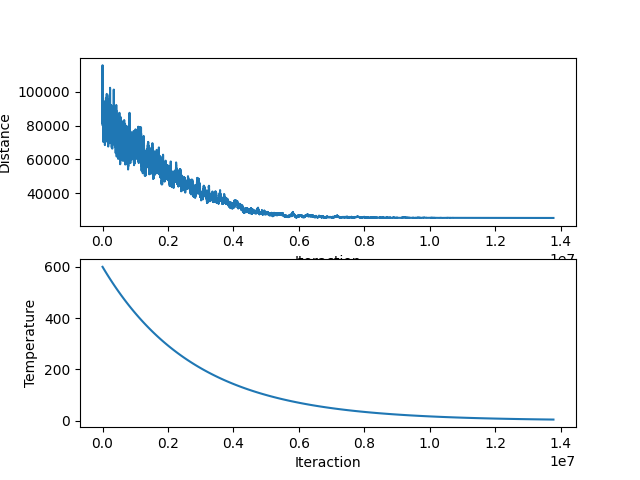
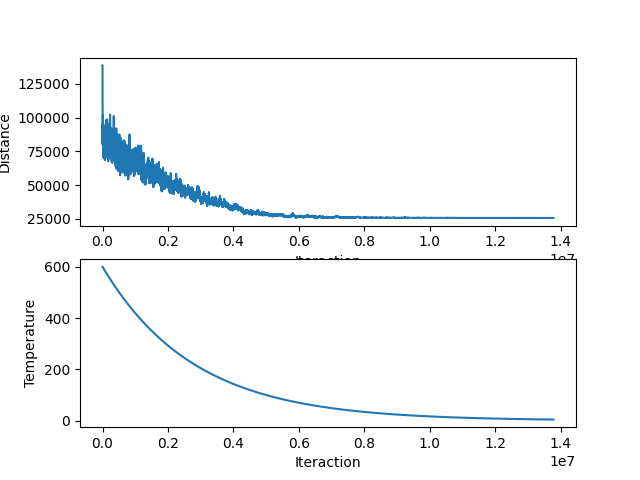
novo plot

Changed region(s): [[0.1562, 0.1562, 0.5, 0.4688], [0.0312, 0.1562, 0.125, 0.3438], [0.0312, 0.375, 0.125, 0.4688]]

diff --git a/data_plots/data_plots/load_data.py b/data_plots/data_plots/load_data.py
@@ -19,7 +19,7 @@ def load(fp: str) -> List[Data]:
             iteraction = int(raw_data[0])
             dist = float(raw_data[1])
             temp = float(raw_data[2])
-            if dist > 120_000:
+            if dist > 140_000:
                 continue
             data = Data(iteraction, dist, temp)
             data_list.append(data)
